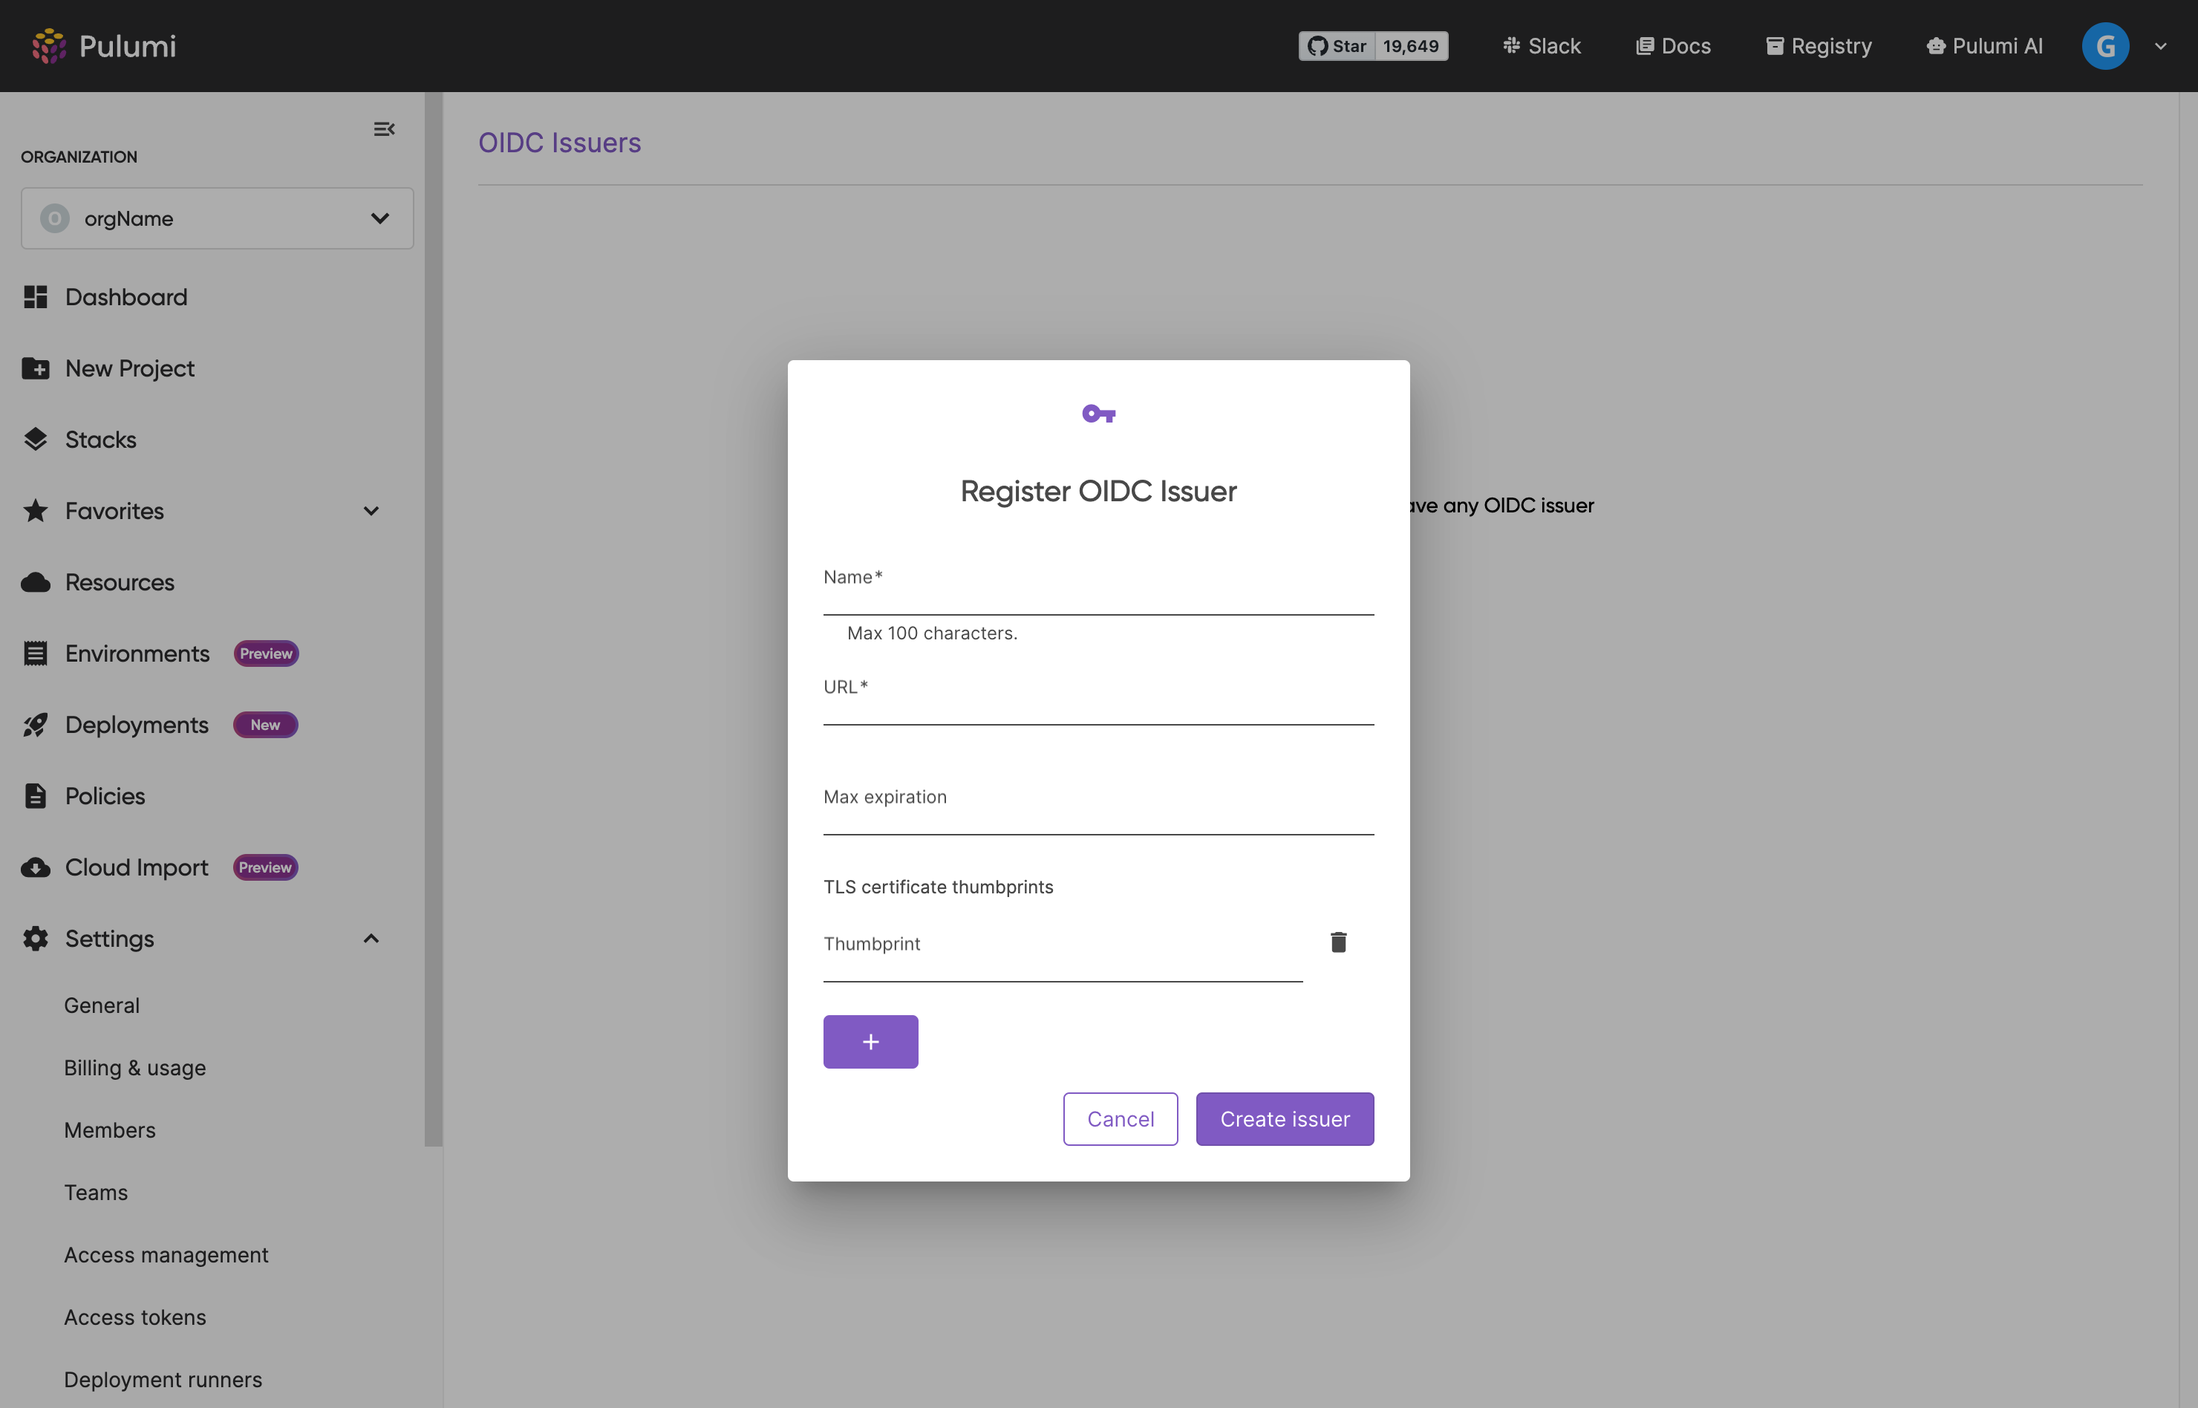
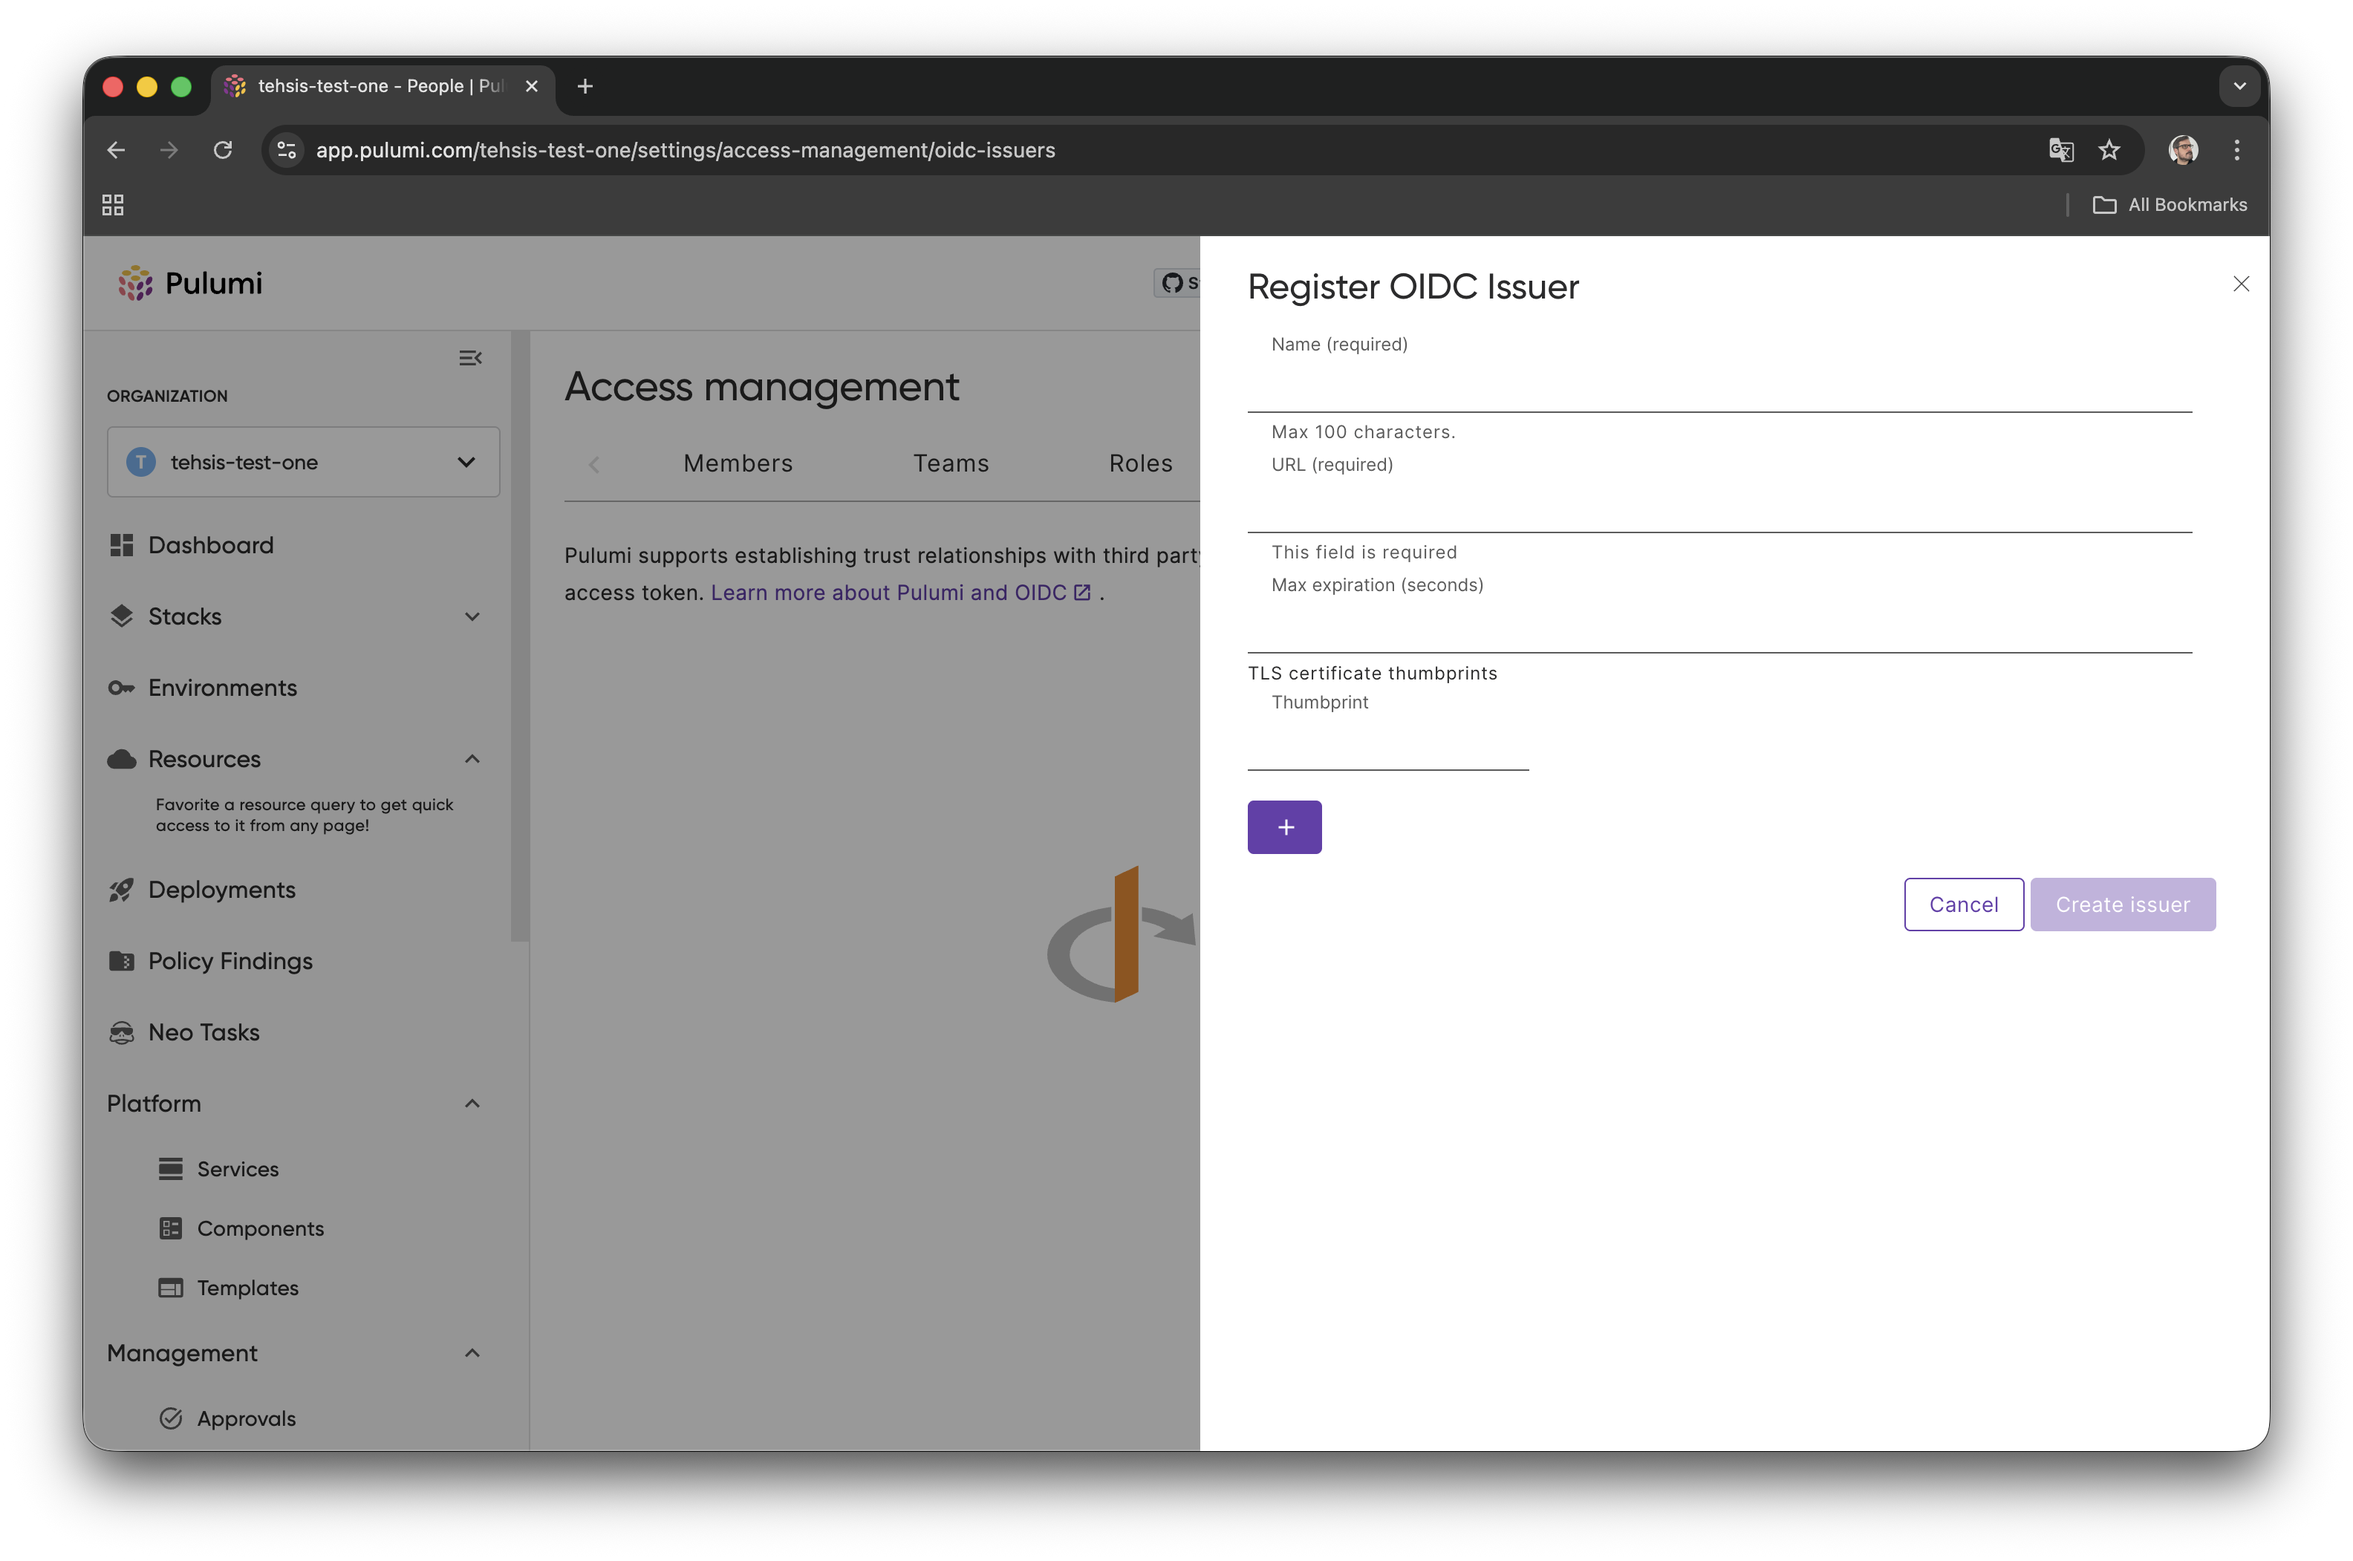
Updated instructions and screenshot to navidate to Register OIDC issuer

diff --git a/content/docs/administration/access-identity/oidc-client/_index.md b/content/docs/administration/access-identity/oidc-client/_index.md
@@ -38,7 +38,7 @@ When configuring authorization policies and requesting tokens, ensure you select
 
 ### Register the OIDC issuer
 
-Navigate to **OIDC Issuers** under your Organization's **Settings** and click on **Register a new issuer**.
+Navigate to **Access Management** under **Settings**, select **OIDC Issuers** on the top menu and then click on **Register issuer**
 
 ![Register new issuer](./register-new-issuer.png)
 
